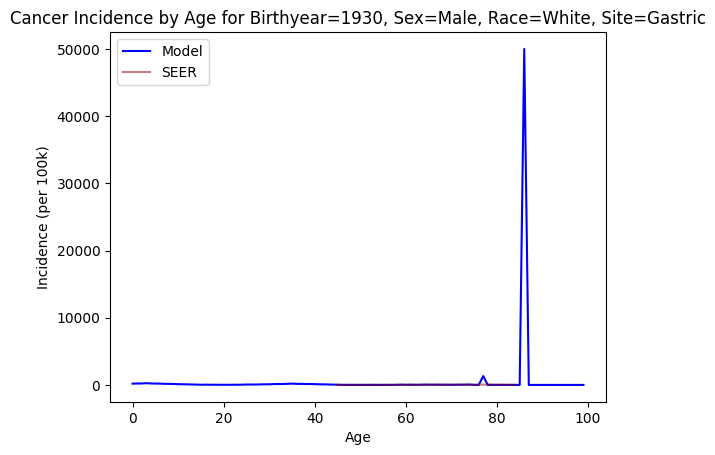
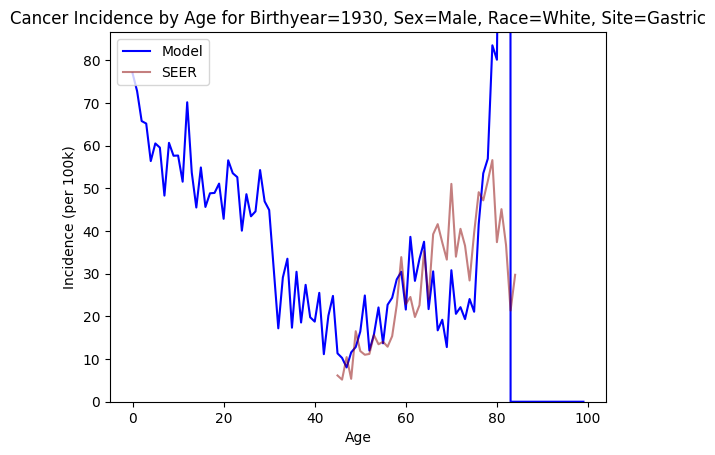
Updated mortality data, and smoothing

diff --git a/src/configs.py b/src/configs.py
@@ -34,7 +34,7 @@ elif COHORT_SEX == 'Female' and 'Prostate' in CANCER_SITES:
     raise Exception("Cancer site and cohort sex combination is not valid in configs.py")
 
 # Define multiprocessing parameters
-NUM_PROCESSES = 24
+NUM_PROCESSES = 4
 
 # Define simulated annealing parameters
 NUM_ITERATIONS = 1_000
@@ -55,7 +55,7 @@ LOAD_LATEST = True  # If true, load the latest cancer_pdf from file as starting 
 # You MUST do multi-calibration in ascending order FIRST before doing descending order
 # You CANNOT start multi-cohort calibration in descending order first
 # When you do reverse calibration, remember that the LAST_COHORT looks at the next +1 birth year cohort year
-MULTI_COHORT_CALIBRATION = True
+MULTI_COHORT_CALIBRATION = False
 REVERSE_MULTI_COHORT_CALIBRATION = False # determines whether you want to reverse the cohort year range in calibration
 if MULTI_COHORT_CALIBRATION:
     FIRST_COHORT = 1930

diff --git a/src/classes.py b/src/classes.py
@@ -156,7 +156,7 @@ def step(candidate, step_size=c.STEP_SIZE, mask_size=c.MASK_SIZE):
     """
     mask = np.random.random(candidate.shape) > mask_size # fraction of values to modify
     candidate[mask] += np.random.uniform(-step_size, step_size, mask.sum())
-    candidate[0] = 0.0  # anchoring
+    candidate[:18] = 0.0  # anchoring
     candidate = csaps(np.linspace(0, 100, 101), candidate, smooth=0.001)(np.linspace(0, 100, 101)).clip(0.0, 1.0)   # smoothing
     return candidate
 
